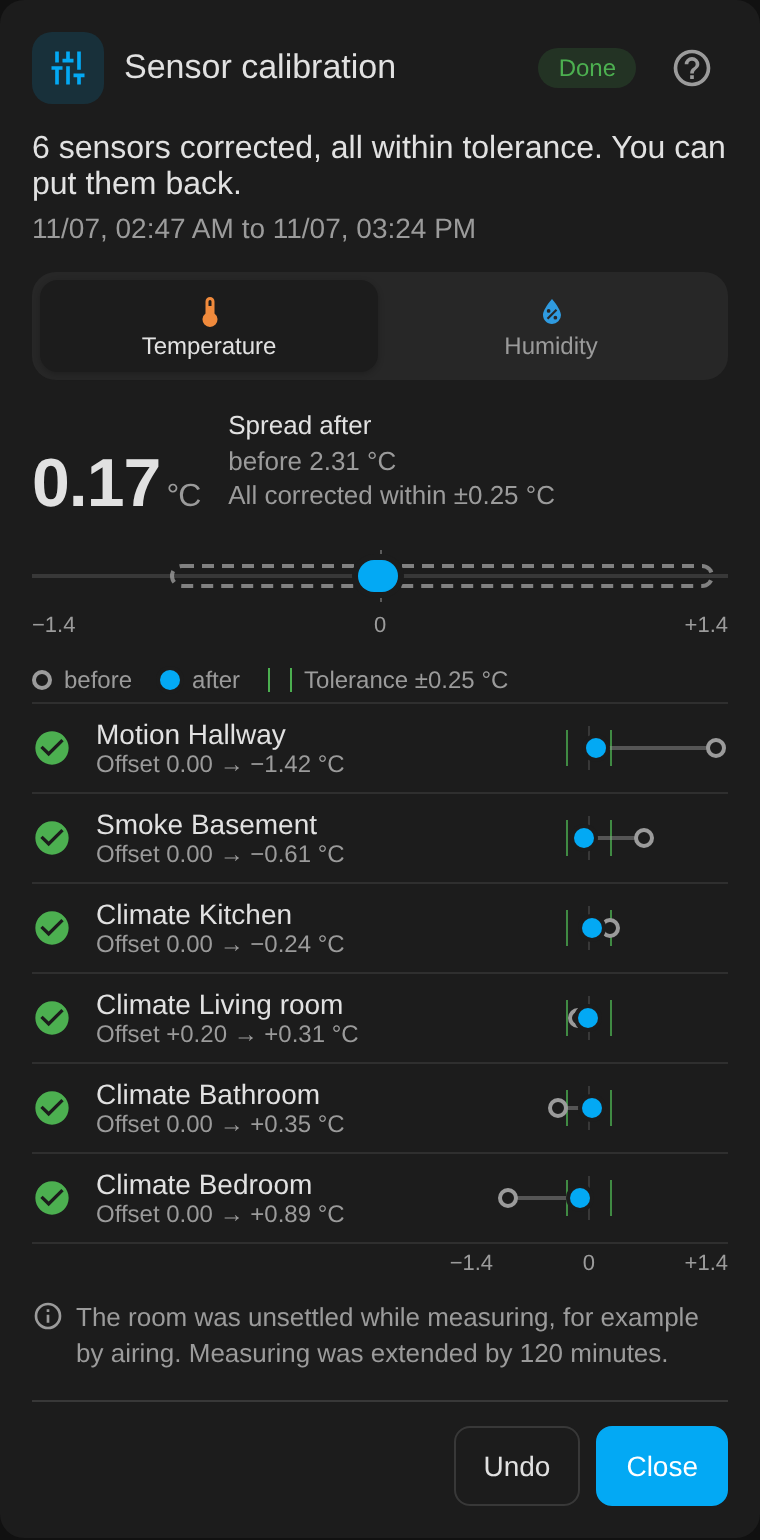
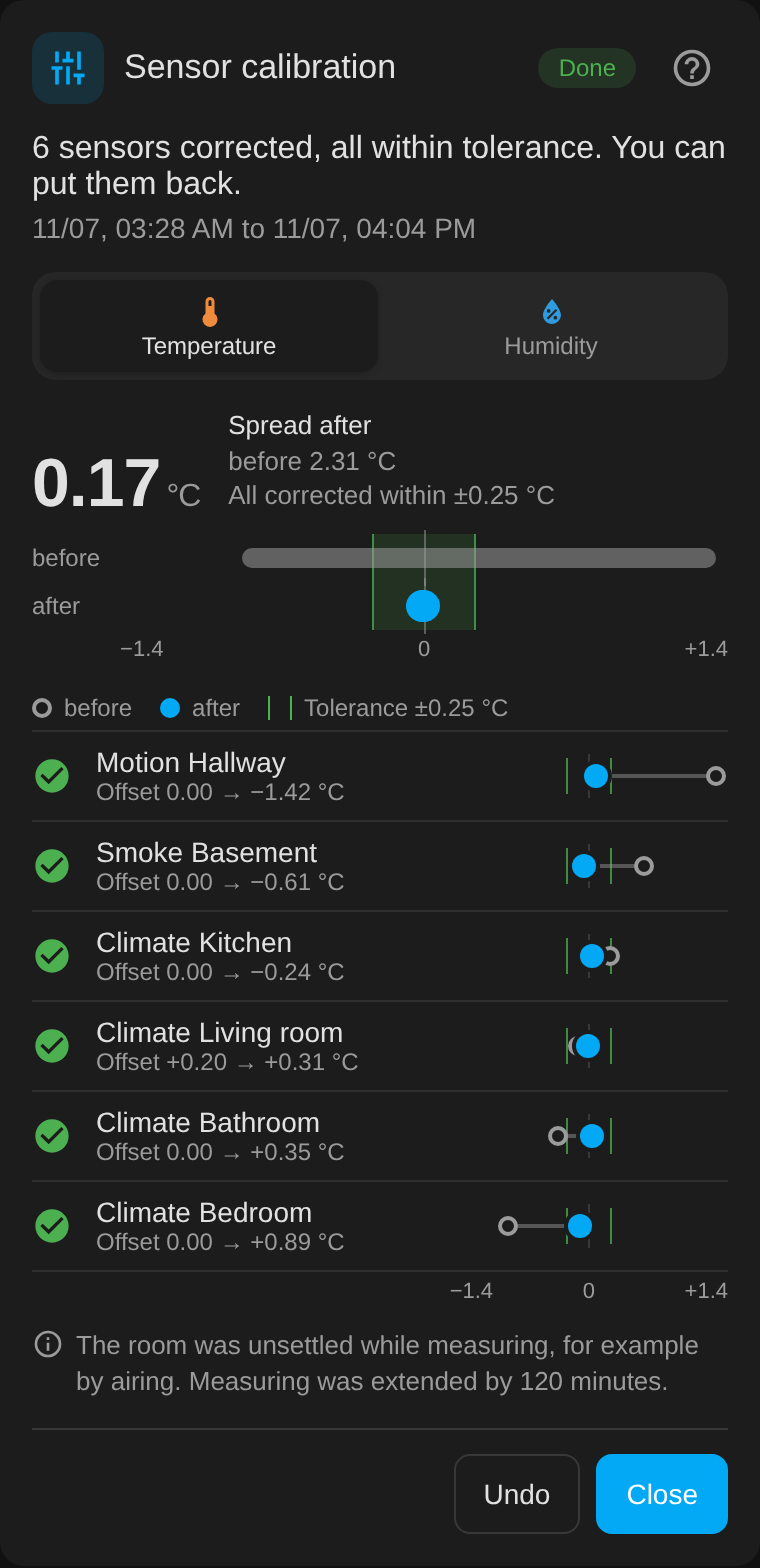
Shorter selection and before/after lanes (1.1.6)
- Reference toggle in each calibrated sensor's row instead of a second list
- Groups without a ticked sensor start collapsed
- Result shows before and after as two lanes with the tolerance area

Claude-Session: https://claude.ai/code/session_01MTNXuX5qFyCWE4s6rSUdzt

diff --git a/custom_components/sensor_kalibrierung/frontend/sensor-kalibrierung-card.js b/custom_components/sensor_kalibrierung/frontend/sensor-kalibrierung-card.js
@@ -80,11 +80,10 @@ const I18N = {
     from_hours: (p) => `ab ${p.h} h`,
     duration: (p) => `mindestens ${p.min} und höchstens etwa ${p.max} Stunden`,
     duration_unknown: "einige Stunden",
-    ref_title: "Referenz, optional",
-    ref_count: (p) => `${p.n} gewählt`,
-    ref_none: "Mittelwert der Gruppe",
-    ref_hint: "Kalibrierte Sensoren, die nicht verändert werden. Die anderen werden an deren Mittelwert angeglichen. Für neue Sensoren zwei oder drei davon dazulegen und hier anhaken, sie werden dann automatisch mit ausgewählt.",
-    ref_empty: "Noch kein Sensor ist kalibriert. Beim ersten Lauf zählt der Mittelwert der Gruppe.",
+    ref_line: (p) => `Referenz: ${p.names}. Sie bleibt unverändert, die anderen werden an ihren Mittelwert angeglichen.`,
+    ref_tip: "Für neue Sensoren zwei oder drei kalibrierte dazulegen und bei ihnen auf {icon} tippen. Ohne Referenz zählt der Mittelwert der Gruppe.",
+    ref_add: "Als Referenz verwenden",
+    ref_remove: "Referenz, antippen zum Entfernen",
     restore_title: "Offsets passen nicht mehr:",
     restore_missing: "fehlen, Gerät wohl zurückgesetzt",
     restore_changed: "von Hand geändert",
@@ -178,7 +177,7 @@ const I18N = {
           ["1. Anhaken", "Alle Sensoren anhaken, die mitmachen. Nicht angehakte bleiben unverändert."],
           ["2. Zusammenlegen", "Alle angehakten Sensoren dicht nebeneinander an einen ruhigen Platz legen, ohne Sonne, Zugluft oder Heizung. Guter Zigbee-Empfang ist wichtig."],
           ["3. Art wählen", "Normal passt immer. Schnell reicht für Aqara und ähnliche Sensoren."],
-          ["4. Referenz, optional", "Für neue Sensoren zwei oder drei bereits kalibrierte dazulegen und unter Referenz anhaken. Oben müssen sie nicht extra angehakt werden. Ohne Referenz zählt der Mittelwert der Gruppe."],
+          ["4. Referenz, optional", "Für neue Sensoren zwei oder drei bereits kalibrierte dazulegen und bei ihnen auf die Zielscheibe rechts tippen. Sie werden dabei automatisch angehakt. Ohne Referenz zählt der Mittelwert der Gruppe."],
           ["5. Starten und warten", "Ab jetzt läuft alles allein. Sensoren nicht bewegen und möglichst nicht lüften. Ein Neustart von Home Assistant schadet nicht."],
           ["6. Zurückbringen", "Wenn die Kachel „Fertig“ zeigt und die Nachricht kommt, die Sensoren an ihre Plätze bringen."],
         ],
@@ -187,7 +186,7 @@ const I18N = {
         title: "Anzeigen in der Kachel",
         items: [
           ["Neu", "Seit höchstens 14 Tagen in Home Assistant und noch nie kalibriert."],
-          ["Referenz", "Der Sensor dient als Messlatte und wird nicht verändert."],
+          ["Zielscheibe, Referenz", "Antippen macht einen kalibrierten Sensor zur Referenz. Er dient als Messlatte und wird nicht verändert. Nochmal antippen entfernt ihn wieder."],
           ["Offsets fehlen", "Zigbee2MQTT kennt die gespeicherten Offsets nicht mehr, meist nach Entfernen und neu Anlernen. Mit „Gespeicherte Offsets zurückschreiben“ beheben, eine neue Messung ist nicht nötig."],
           ["Offsets geändert", "Die Offsets wurden außerhalb der Kalibrierung geändert, etwa von Hand in Zigbee2MQTT. Zurückschreiben nur, wenn das nicht Absicht war."],
           ["Blauer Balken", "Abweichung des Sensors vom Mittel oder von der Referenz. Blau heißt stabil."],
@@ -197,7 +196,8 @@ const I18N = {
           ["still … Min.", "Der Sensor meldet sich nicht mehr. Die Kalibrierung wartet auf ihn. Kurz die Taste am Sensor drücken oder näher an einen Router legen."],
           ["Streuung", "Abstand zwischen dem höchsten und dem niedrigsten Sensor. Mit Referenz zählt stattdessen der größte Abstand zur Referenz."],
           ["Toleranz", "Ab hier gilt ein Sensor als richtig: ±0,25 °C, ±1 % Feuchte, ±0,3 hPa."],
-          ["Grafik im Ergebnis", "Ring: Abweichung vorher. Punkt: Abweichung nachher. Die grünen Linien zeigen die Toleranz."],
+          ["Spuren im Ergebnis", "Grau: Bereich aller korrigierten Sensoren vorher. Blau: nachher. Das grüne Feld ist die Toleranz."],
+          ["Grafik je Sensor", "Ring: Abweichung vorher. Punkt: Abweichung nachher. Die grünen Linien zeigen die Toleranz."],
         ],
       },
       {
@@ -281,11 +281,10 @@ const I18N = {
     from_hours: (p) => `from ${p.h} h`,
     duration: (p) => `at least ${p.min} and at most about ${p.max} hours`,
     duration_unknown: "a few hours",
-    ref_title: "Reference, optional",
-    ref_count: (p) => `${p.n} selected`,
-    ref_none: "Group average",
-    ref_hint: "Calibrated sensors that are not changed. The others are matched to their average. For new sensors, place two or three of them alongside and tick them here; they are selected automatically.",
-    ref_empty: "No sensor is calibrated yet. The first run uses the group average.",
+    ref_line: (p) => `Reference: ${p.names}. It stays unchanged; the others are matched to its average.`,
+    ref_tip: "For new sensors, place two or three calibrated ones alongside and tap {icon} on them. Without a reference the group average counts.",
+    ref_add: "Use as reference",
+    ref_remove: "Reference, tap to remove",
     restore_title: "Offsets no longer match:",
     restore_missing: "missing, device probably reset",
     restore_changed: "changed manually",
@@ -379,7 +378,7 @@ const I18N = {
           ["1. Tick", "Tick every sensor that takes part. Unticked sensors stay unchanged."],
           ["2. Place together", "Put all ticked sensors close together in a calm spot, away from sun, draughts and heating. Good Zigbee reception matters."],
           ["3. Choose a mode", "Normal always works. Quick is enough for Aqara and similar sensors."],
-          ["4. Reference, optional", "For new sensors, add two or three calibrated ones and tick them under Reference. They don't need to be ticked above. Without a reference the group average counts."],
+          ["4. Reference, optional", "For new sensors, add two or three calibrated ones and tap the target icon on the right of their rows. They are ticked automatically. Without a reference the group average counts."],
           ["5. Start and wait", "From now on everything runs on its own. Don't move the sensors and avoid airing. Restarting Home Assistant does no harm."],
           ["6. Put back", "When the card shows “Done” and the notification arrives, put the sensors back in place."],
         ],
@@ -388,7 +387,7 @@ const I18N = {
         title: "Indicators in the card",
         items: [
           ["New", "Added to Home Assistant within the last 14 days and never calibrated."],
-          ["Reference", "The sensor serves as the yardstick and is not changed."],
+          ["Target icon, Reference", "Tapping it makes a calibrated sensor the reference. It serves as the yardstick and is not changed. Tap again to remove it."],
           ["Offsets missing", "Zigbee2MQTT no longer knows the stored offsets, usually after removing and re-pairing. Fix with “Write back stored offsets”, no new measurement needed."],
           ["Offsets changed", "The offsets were changed outside the calibration, for example by hand in Zigbee2MQTT. Write back only if that was not intended."],
           ["Blue bar", "Deviation of the sensor from the average or the reference. Blue means stable."],
@@ -398,7 +397,8 @@ const I18N = {
           ["silent … min", "The sensor stopped reporting. The calibration waits for it. Briefly press its button or move it closer to a router."],
           ["Spread", "Distance between the highest and the lowest sensor. With a reference, the largest distance to the reference counts instead."],
           ["Tolerance", "Within this a sensor counts as correct: ±0.25 °C, ±1 % humidity, ±0.3 hPa."],
-          ["Chart in the result", "Ring: deviation before. Dot: deviation after. The green lines show the tolerance."],
+          ["Lanes in the result", "Grey: range of all corrected sensors before. Blue: after. The green area is the tolerance."],
+          ["Chart per sensor", "Ring: deviation before. Dot: deviation after. The green lines show the tolerance."],
         ],
       },
       {
@@ -726,6 +726,24 @@ const STYLES = `
   button.primary ha-icon, button.with-icon ha-icon { --mdc-icon-size: 18px; }
   button.with-icon { display: inline-flex; align-items: center; gap: 6px; }
   footer .info.full { flex: 1 1 100%; }
+  .reftoggle { flex: none; width: 34px; min-width: 34px; min-height: 34px; padding: 0; border: none; border-radius: 50%;
+    display: inline-flex; align-items: center; justify-content: center; background: transparent; color: var(--secondary-text-color); opacity: .55; }
+  .reftoggle ha-icon { --mdc-icon-size: 20px; }
+  .reftoggle:hover { opacity: 1; }
+  .reftoggle.on { opacity: 1; color: var(--success-color); background: color-mix(in srgb, var(--success-color) 16%, transparent); }
+  .reftoggle-space { flex: none; width: 34px; }
+  .refline { display: flex; gap: 8px; align-items: flex-start; font-size: 13px; line-height: 1.4; margin: 10px 0 4px; }
+  .refline ha-icon { --mdc-icon-size: 18px; color: var(--success-color); flex: none; margin-top: 1px; }
+  ha-icon.inline { --mdc-icon-size: 15px; vertical-align: -3px; }
+  .lanes { display: grid; grid-template-columns: auto minmax(0, 1fr); gap: 8px 10px; align-items: center; margin: 8px 0 16px; font-size: 12px; color: var(--secondary-text-color); }
+  .lane { position: relative; height: 16px; }
+  .lane .zone { position: absolute; top: -4px; bottom: -4px; background: color-mix(in srgb, var(--success-color) 14%, transparent);
+    border-left: 1px solid color-mix(in srgb, var(--success-color) 75%, transparent); border-right: 1px solid color-mix(in srgb, var(--success-color) 75%, transparent); }
+  .lane .zero { position: absolute; left: 50%; top: -6px; bottom: -6px; width: 1px; background: var(--secondary-text-color); opacity: .5; }
+  .lane .before { position: absolute; top: 3px; height: 10px; border-radius: 5px; min-width: 6px; background: color-mix(in srgb, var(--secondary-text-color) 55%, transparent); }
+  .lane .after { position: absolute; top: 0; height: 16px; border-radius: 8px; min-width: 8px; background: var(--primary-color); }
+  .lane-axis { display: flex; justify-content: space-between; font-size: 11px; font-variant-numeric: tabular-nums; }
+  .mini .dot.after { width: 12px; height: 12px; margin-left: -6px; top: 5px; }
   .notes li.info, .notes li.info ha-icon { color: var(--secondary-text-color); }
   .tabs button { flex: 1 1 0; min-width: 0; padding: 4px; flex-direction: column; gap: 1px; min-height: 46px; font-size: 12px; }
   .tabs button span { overflow: hidden; text-overflow: ellipsis; white-space: nowrap; }
@@ -944,10 +962,13 @@ class SensorKalibrierungCard extends HTMLElement {
         }
       });
     });
-    root.querySelectorAll("input[data-reference]").forEach((element) => {
-      element.addEventListener("change", () =>
-        this._toggleReference(element.dataset.reference, element.checked),
-      );
+    root.querySelectorAll("[data-ref-toggle]").forEach((element) => {
+      element.addEventListener("click", (event) => {
+        event.preventDefault();
+        event.stopPropagation();
+        const id = element.dataset.refToggle;
+        this._toggleReference(id, !(this._state.references || []).includes(id));
+      });
     });
     root.querySelectorAll("input[data-pick]").forEach((element) => {
       element.addEventListener("change", () =>
@@ -1047,24 +1068,27 @@ class SensorKalibrierungCard extends HTMLElement {
           `<ha-icon style="--q: ${QUANTITIES[key].color}" icon="${QUANTITIES[key].icon}"></ha-icon>`,
       )
       .join("")}</span>`;
+    const isRef = references.has(item.id);
+    const refButton =
+      item.last_calibrated || isRef
+        ? `<button class="reftoggle ${isRef ? "on" : ""}" data-ref-toggle="${escapeHtml(item.id)}" aria-pressed="${isRef}" title="${escapeHtml(isRef ? t("ref_remove") : t("ref_add"))}" aria-label="${escapeHtml(isRef ? t("ref_remove") : t("ref_add"))}"><ha-icon icon="mdi:target"></ha-icon></button>`
+        : `<span class="reftoggle-space"></span>`;
     return `<label class="pick">
       <input type="checkbox" data-pick="${escapeHtml(item.id)}" ${selected.has(item.id) ? "checked" : ""}>
-      <span class="text"><span class="line">${escapeHtml(item.name)}${tag}${areaText}</span>${when}</span>${low}${icons}
+      <span class="text"><span class="line">${escapeHtml(item.name)}${tag}${areaText}</span>${when}</span>${low}${icons}${refButton}
     </label>`;
   }
 
   _idle(state) {
     const selected = new Set(state.selection);
     const references = new Set(state.references || []);
-    const referenceCandidates = state.candidates.filter(
-      (item) => item.last_calibrated || references.has(item.id),
-    );
     const groups = GROUPS.map((group) => {
       const items = state.candidates.filter((item) => item.group === group.key);
       if (!items.length) return "";
       const [title, hint] = t(`groups.${group.key}`);
       const count = items.filter((item) => selected.has(item.id)).length;
-      const open = this._openGroups[group.key] ?? group.open;
+      // Gruppen ohne angehakten Sensor starten zugeklappt, das hält die Liste kurz.
+      const open = this._openGroups[group.key] ?? (count > 0 || group.key === "full");
       return `<details data-group="${group.key}" ${open ? "open" : ""}>
         <summary><ha-icon icon="${group.icon}"></ha-icon>${escapeHtml(title)}<span>${escapeHtml(t("of", { a: count, b: items.length }))}</span></summary>
         ${hint ? `<p class="hint">${escapeHtml(hint)}</p>` : ""}
@@ -1085,28 +1109,16 @@ class SensorKalibrierungCard extends HTMLElement {
         return `<button class="${key === mode ? "on" : ""}" data-action="mode" data-mode="${key}"><ha-icon icon="${key === "quick" ? "mdi:lightning-bolt-outline" : "mdi:timer-sand"}"></ha-icon>${escapeHtml(label + from)}</button>`;
       })
       .join("")}</div><p class="hint">${escapeHtml(t(`modes.${mode}`)[1])}</p>`;
-    const referenceOpen = this._openGroups.reference ?? references.size > 0;
-    const referenceList = referenceCandidates.length
-      ? referenceCandidates
-          .map(
-            (item) => `<label class="pick">
-              <input type="checkbox" data-reference="${escapeHtml(item.id)}" ${references.has(item.id) ? "checked" : ""}>
-              <span class="text"><span class="line">${escapeHtml(item.name)}</span>${
-                item.last_calibrated
-                  ? `<span class="when">${escapeHtml(t("calibrated_at", { date: fullDate(item.last_calibrated) }))}</span>`
-                  : item.correctable.length
-                    ? `<span class="when warn-text">${escapeHtml(t("not_calibrated"))}</span>`
-                    : ""
-              }</span>
-            </label>`,
-          )
-          .join("")
-      : `<p class="hint">${escapeHtml(t("ref_empty"))}</p>`;
-    const referenceBlock = `<details data-group="reference" ${referenceOpen ? "open" : ""}>
-        <summary><ha-icon icon="mdi:target"></ha-icon>${escapeHtml(t("ref_title"))}<span>${escapeHtml(references.size ? t("ref_count", { n: references.size }) : t("ref_none"))}</span></summary>
-        <p class="hint">${escapeHtml(t("ref_hint"))}</p>
-        ${referenceList}
-      </details>`;
+    const refNames = state.candidates
+      .filter((item) => references.has(item.id))
+      .map((item) => item.name);
+    const tip = escapeHtml(t("ref_tip")).replace(
+      "{icon}",
+      '<ha-icon class="inline" icon="mdi:target"></ha-icon>',
+    );
+    const referenceBlock = refNames.length
+      ? `<p class="refline"><ha-icon icon="mdi:target"></ha-icon><span>${escapeHtml(t("ref_line", { names: refNames.join(", ") }))}</span></p>`
+      : `<p class="hint">${tip}</p>`;
     const flagged = state.candidates.filter((item) => item.offset_state);
     const restoreConfirm = this._confirm === "restore";
     const restore = flagged.length
@@ -1130,8 +1142,8 @@ class SensorKalibrierungCard extends HTMLElement {
       ${modes}
       ${bridge}
       ${restore}
-      ${groups}
       ${referenceBlock}
+      ${groups}
       ${this._errorLine()}
       <footer>
         <span class="info full">${escapeHtml(t("selected", { n: selected.size, refs: references.size }))}</span>
@@ -1253,6 +1265,8 @@ class SensorKalibrierungCard extends HTMLElement {
       ...counted.flatMap((item) => [Math.abs(item.deviation), Math.abs(item.after ?? 0)]),
     );
     const pos = (value) => Math.min(99, Math.max(1, 50 + (value / limit) * 48));
+    const zoneWidth = Math.min(48, (meta.tolerance / limit) * 48);
+    const zone = `<i class="zone" style="left: ${50 - zoneWidth}%; width: ${2 * zoneWidth}%"></i>`;
     const band = (values, cls) => {
       if (!values.length) return "";
       const left = pos(Math.min(...values));
@@ -1286,10 +1300,11 @@ class SensorKalibrierungCard extends HTMLElement {
     return `<div class="hero" style="--q: ${meta.color}">
         <div class="big">${big}</div><div class="what">${what}</div>
       </div>
-      <div class="span" style="--q: ${meta.color}" title="${escapeHtml(t("span_title"))}">
-        <i class="base"></i><i class="zero"></i>${band(before, "before")}${band(after, "after")}
-      </div>
-      <div class="span-legend"><span>−${edge}</span><span>0</span><span>+${edge}</span></div>`;
+      <div class="lanes" title="${escapeHtml(t("span_title"))}">
+        <span>${escapeHtml(t("legend_before"))}</span><div class="lane">${zone}<i class="zero"></i>${band(before, "before")}</div>
+        <span>${escapeHtml(t("legend_after"))}</span><div class="lane">${zone}<i class="zero"></i>${band(after, "after")}</div>
+        <span></span><div class="lane-axis"><span>−${edge}</span><span>0</span><span>+${edge}</span></div>
+      </div>`;
   }
 
   _rows(data, names, key, canAdopt) {

diff --git a/README.de.md b/README.de.md
@@ -63,12 +63,12 @@ Die Zeiten für *Normal*, die größte automatische Korrektur und die Empfänger
 ## Neue und zurückgesetzte Sensoren
 
 - **Neue Sensoren** tragen in der Kachel 14 Tage lang die Markierung *Neu*, bis sie kalibriert sind.
-- **Referenz:** Zwei oder drei kalibrierte Sensoren neben die neuen legen und unter *Referenz* anhaken. Sie werden automatisch mit ausgewählt und nicht verändert. Die neuen werden an den Mittelwert der Referenzen angeglichen. Ohne Referenz zählt der Mittelwert der Gruppe.
+- **Referenz:** Zwei oder drei kalibrierte Sensoren neben die neuen legen und in ihrer Zeile rechts auf die Zielscheibe tippen. Sie werden automatisch mit ausgewählt und nicht verändert. Die neuen werden an den Mittelwert der Referenzen angeglichen. Ohne Referenz zählt der Mittelwert der Gruppe.
 - **Zurückgesetzte Sensoren:** Die Offsets werden je IEEE-Adresse gespeichert. Verliert Zigbee2MQTT sie, etwa nach Entfernen und neu Anlernen, zeigt die Kachel *Offsets fehlen*. **Gespeicherte Offsets zurückschreiben** stellt sie ohne neue Messung wieder her.
 
 ## Ergebnis
 
-Das Ergebnis zeigt die Streuung vorher und nachher, mit Referenz den größten Abstand zur Referenz. Eine Grafik zeigt jeden Sensor vor (Ring) und nach (Punkt) der Korrektur, die Toleranz als grüne Linien:
+Das Ergebnis zeigt die Streuung vorher und nachher, mit Referenz den größten Abstand zur Referenz, als zwei Spuren: grau vorher, blau nachher, die Toleranz als grünes Feld. Eine Grafik zeigt jeden Sensor vor (Ring) und nach (Punkt) der Korrektur, die Toleranz als grüne Linien:
 
 | | Toleranz |
 |---|---|

diff --git a/README.md b/README.md
@@ -63,12 +63,12 @@ The times for *Normal*, the largest automatic correction and the notification ta
 ## New and reset sensors
 
 - **New sensors** are marked *New* in the card for 14 days until they are calibrated.
-- **Reference:** place two or three calibrated sensors next to the new ones and tick them under *Reference*. They are selected automatically and not changed. The new sensors are matched to the reference average. Without a reference the group average counts.
+- **Reference:** place two or three calibrated sensors next to the new ones and tap the target icon on the right of their rows. They are selected automatically and not changed. The new sensors are matched to the reference average. Without a reference the group average counts.
 - **Reset sensors:** offsets are stored per IEEE address. If Zigbee2MQTT loses them, for example after removing and re-pairing a device, the card shows *Offsets missing*. **Write back stored offsets** restores them without measuring again.
 
 ## Result
 
-The result shows the spread before and after, or with a reference the largest distance to the reference. A chart shows each sensor before (ring) and after (dot) the correction, with the tolerance as green lines:
+The result shows the spread before and after, or with a reference the largest distance to the reference, as two lanes: grey before, blue after, with the tolerance as a green area. A chart shows each sensor before (ring) and after (dot) the correction, with the tolerance as green lines:
 
 | | Tolerance |
 |---|---|

diff --git a/CHANGELOG.md b/CHANGELOG.md
@@ -1,5 +1,19 @@
 # Changelog / Änderungen
 
+## 1.1.6
+
+**English**
+
+- References are chosen with the target icon in each calibrated sensor's row. The separate reference list is gone, which makes the selection much shorter.
+- Groups without a ticked sensor start collapsed.
+- The result shows before and after as two lanes with the tolerance as a green area, so nothing is hidden. The dot for “after” is slightly larger than the ring for “before”.
+
+**Deutsch**
+
+- Referenzen wählt man mit der Zielscheibe in der Zeile jedes kalibrierten Sensors. Die eigene Referenzliste entfällt, die Auswahl wird deutlich kürzer.
+- Gruppen ohne angehakten Sensor starten zugeklappt.
+- Das Ergebnis zeigt vorher und nachher als zwei Spuren mit der Toleranz als grünes Feld, nichts wird mehr verdeckt. Der Punkt für „nachher“ ist etwas größer als der Ring für „vorher“.
+
 ## 1.1.5
 
 **English**
